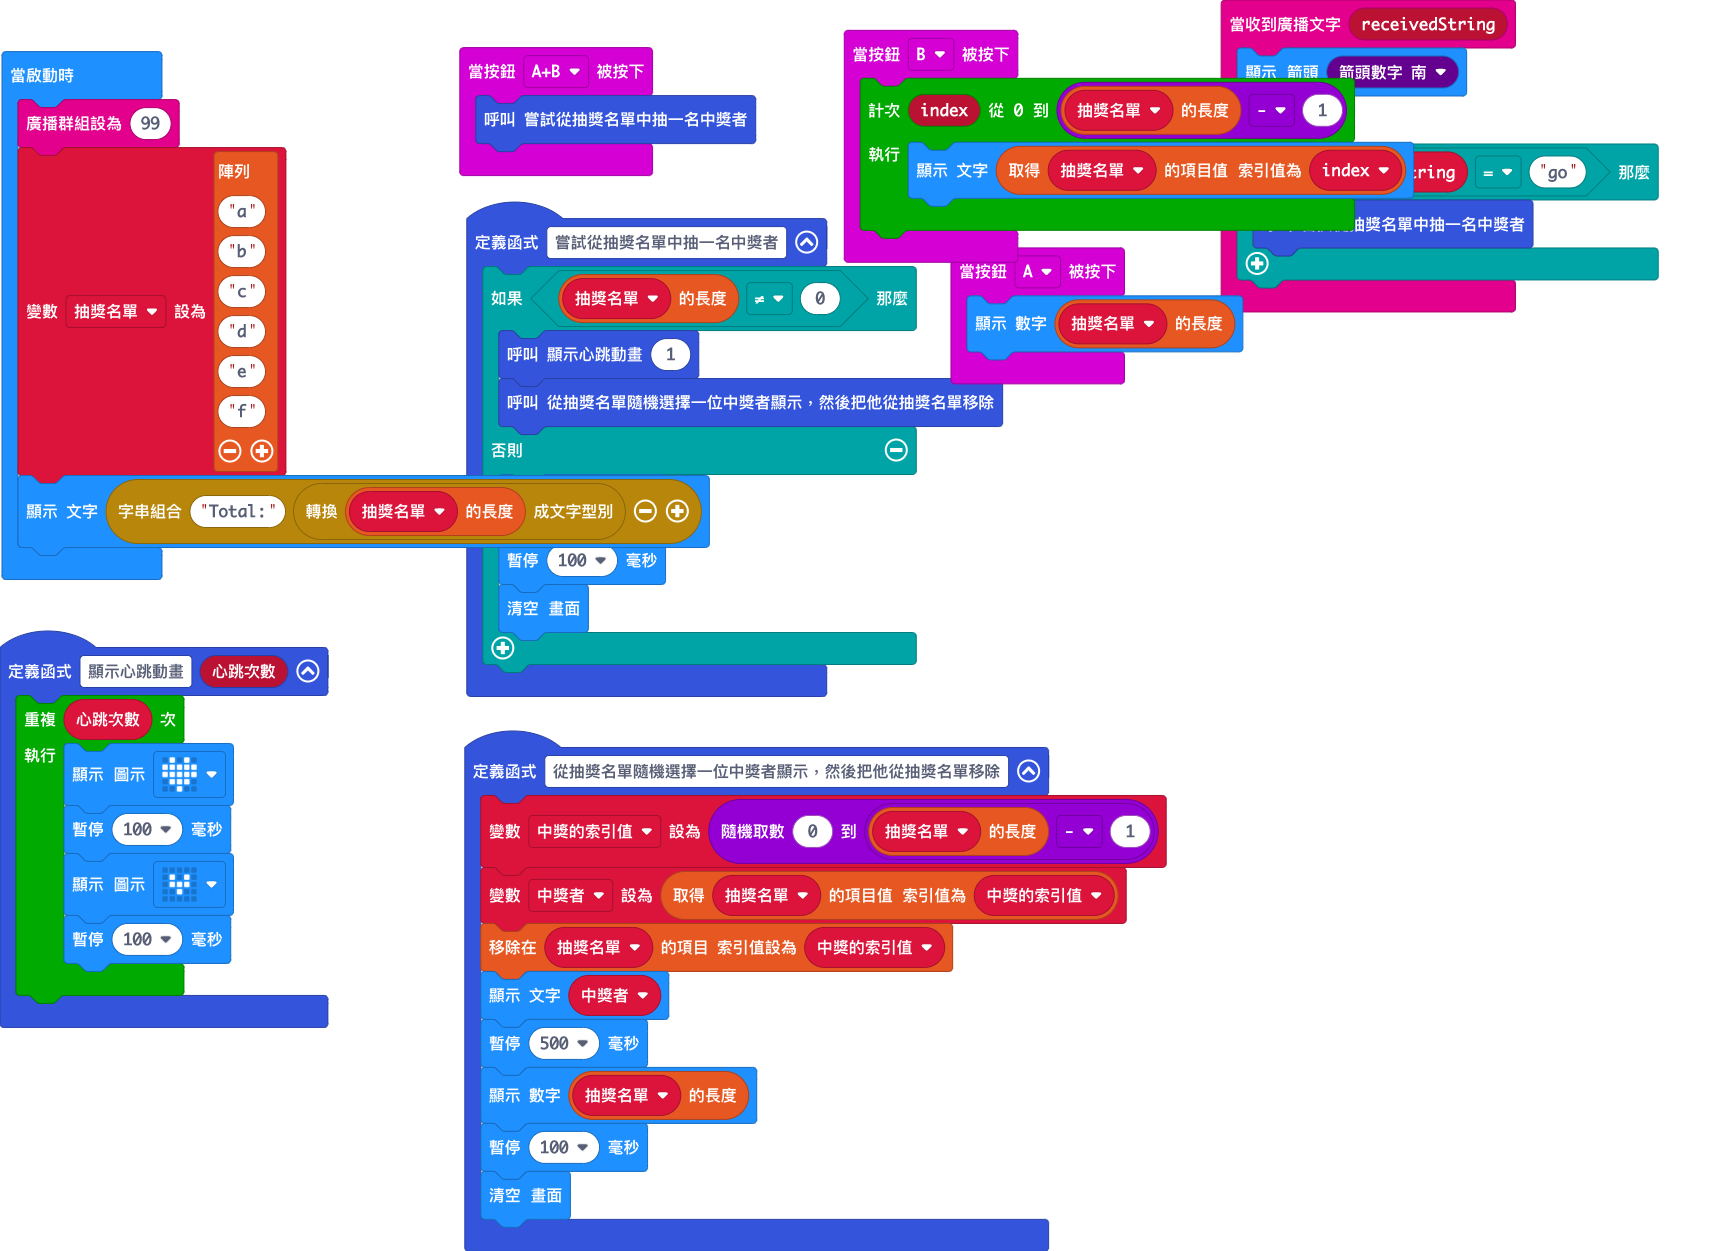
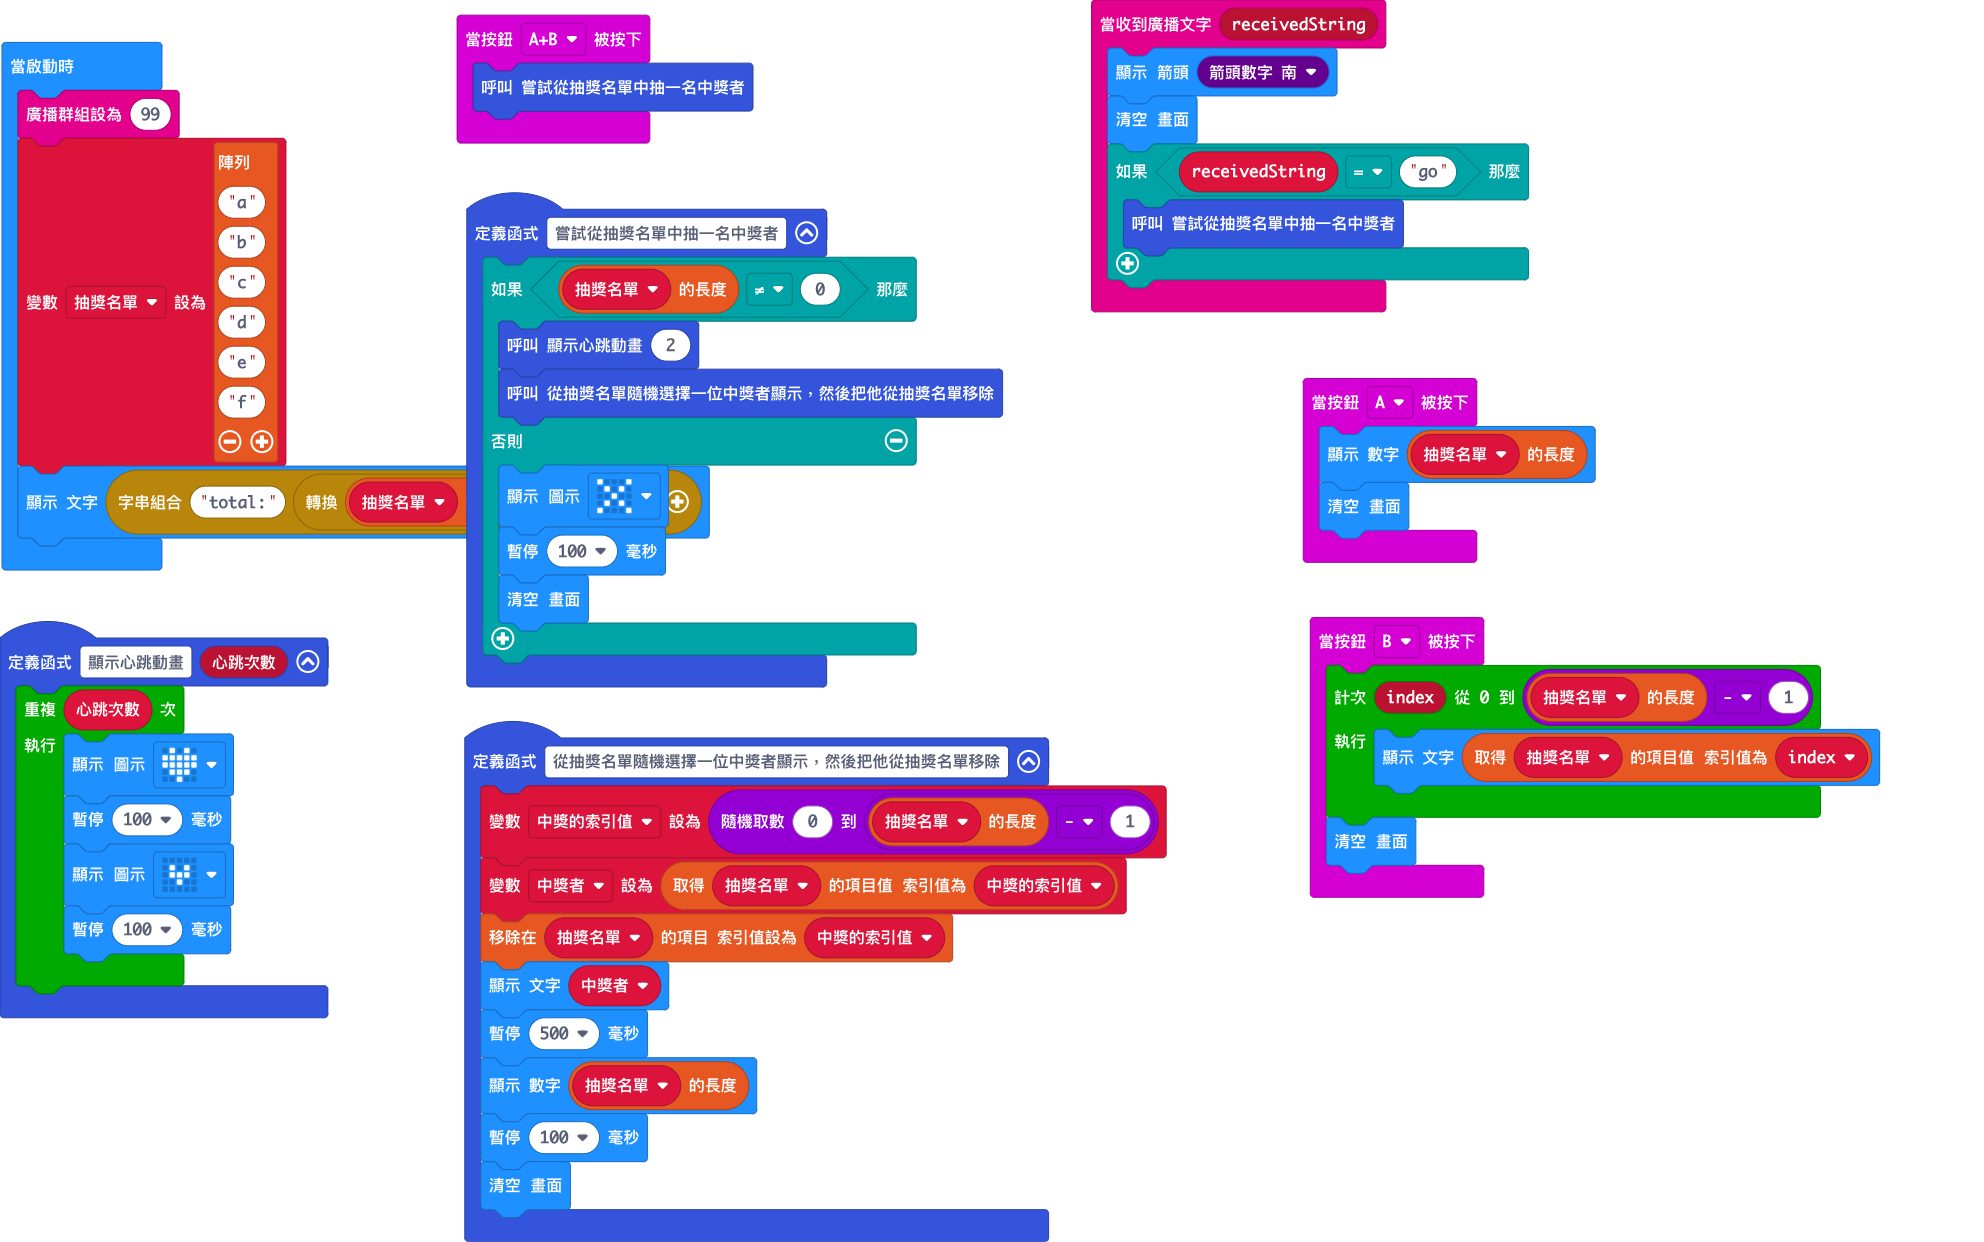
Refinement

diff --git a/main.ts b/main.ts
@@ -18,6 +18,7 @@ function 顯示心跳動畫 (心跳次數: number) {
 }
 input.onButtonPressed(Button.A, function () {
     basic.showNumber(抽獎名單.length)
+    basic.clearScreen()
 })
 input.onButtonPressed(Button.AB, function () {
     嘗試從抽獎名單中抽一名中獎者()
@@ -33,10 +34,11 @@ input.onButtonPressed(Button.B, function () {
     for (let index = 0; index <= 抽獎名單.length - 1; index++) {
         basic.showString("" + (抽獎名單[index]))
     }
+    basic.clearScreen()
 })
 function 嘗試從抽獎名單中抽一名中獎者 () {
     if (抽獎名單.length != 0) {
-        顯示心跳動畫(1)
+        顯示心跳動畫(2)
         從抽獎名單隨機選擇一位中獎者顯示然後把他從抽獎名單移除()
     } else {
         basic.showIcon(IconNames.No)
@@ -49,4 +51,4 @@ let 中獎的索引值 = 0
 let 抽獎名單: string[] = []
 radio.setGroup(99)
 抽獎名單 = ["a", "b", "c", "d", "e", "f"]
-basic.showString("Total:" + convertToText(抽獎名單.length))
+basic.showString("total:" + convertToText(抽獎名單.length))
